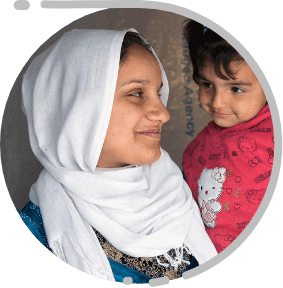
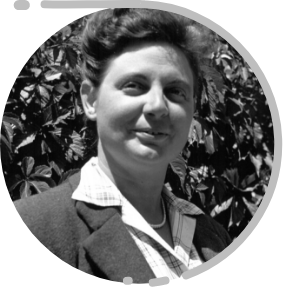
Adding témoignages Madeleine

diff --git a/index.html b/index.html
@@ -63,12 +63,11 @@
 
     <div class="container-fluid" style="z-index: 700;">
         <div class="row" style="position: relative">
-            <div class="col-lg-12 col-xs-12 no-padding"
-                style=" height: 100vh">
-                <video poster="assets/Header.png" id="bgvid"  playsinline autoplay muted >
+            <div class="col-lg-12 col-xs-12 no-padding" style=" height: 100vh">
+                <video poster="assets/Header.png" id="bgvid" playsinline autoplay muted>
                     <source src="assets/Cimade%20FA2019%20intro%20site.mp4" type="video/mp4">
                 </video>
-                <div class="row" >
+                <div class="row">
                     <div class="col-lg-6 col-xs-6" style="margin-top: 20px;z-index: 10">
                         <a href="https://www.lacimade.org/" target="_blank" style=" margin-left: 20px; ">
                             <img src="assets/logoHeader.png" alt="logo" id="logoHeader">
@@ -97,7 +96,8 @@
                     </div>
                 </div>
                 <img src="assets/titleHeader.png"
-                    style="position: absolute; bottom: 0px; left: 50%; margin-left: -389px; z-index: 4" id="titleHeader">
+                    style="position: absolute; bottom: 0px; left: 50%; margin-left: -389px; z-index: 4"
+                    id="titleHeader">
             </div>
         </div>
         <div class="row blanc_pur_bg" style="padding-top: 40px;">
@@ -130,9 +130,11 @@
                                 Montrez-vous extrêmement solidaires des personnes migrantes et réfugiées,<br><br>
                             </div>
                             <div class="OpenSans font-size-20 bold rouge_pur uppercase">
-                                <a href="https://donner.lacimade.org/b?cid=76&utm_campaign=FA19&utm_source=LP" target="_blank" class="utmHref rouge_pur rouge_purHover">
-                                        <img src="assets/arrow.png"
-                                        style="float: left; margin-right: 10px; height: 25px; padding-top: 3px"> soutenez la
+                                <a href="https://donner.lacimade.org/b?cid=76&utm_campaign=FA19&utm_source=LP"
+                                    target="_blank" class="utmHref rouge_pur rouge_purHover">
+                                    <img src="assets/arrow.png"
+                                        style="float: left; margin-right: 10px; height: 25px; padding-top: 3px">
+                                    soutenez la
                                     cimade.
                                 </a>
                             </div>
@@ -207,8 +209,8 @@
                 <div id="displayPopUptemoin2"
                     class="redCircleDescription rouge_pur_bg center-middle blanc_pur Dosis medium font-size-76">+
                 </div>
-                <span class="rouge_pur uppercase semi-bold Dosis font-size-40">Prénom</span><br>
-                <span class="noir_pur light Dosis font-size-30">Titre de témoignage</span>
+                <span class="rouge_pur uppercase semi-bold Dosis font-size-36">madeleine barot</span><br>
+                <span class="noir_pur light Dosis font-size-20">Secrétaire générale de La Cimade<br>de 1940 à 1956</span>
             </div>
         </div>
         <!--TEMOIN 3-->
@@ -286,8 +288,9 @@
                             class="redCircleDescription rotateCircleTemoinPopUp rouge_pur_bg center-middle blanc_pur Dosis medium font-size-76">
                             +
                         </div>
-                        <span class="rouge_pur uppercase semi-bold Dosis font-size-40">Prénom</span><br>
-                        <span class="blanc_pur light Dosis font-size-30">Titre de témoignage</span>
+                        <span class="rouge_pur uppercase semi-bold Dosis font-size-36">madeleine barot</span><br>
+                        <span class="blanc_pur light Dosis font-size-20">Secrétaire générale de La Cimade<br>de 1940 à
+                            1956</span>
                     </div>
                 </div>
             </div>
@@ -298,25 +301,30 @@
                     style="position: relative; right: 10px; bottom: 150px;">
                 <div id="textPopUpDescription">
                     <span class="blanc_pur font-size-40 Dosis semi-bold uppercase" style="line-height: 45px;">
-                        lorem ipsum<br>
+                        EN JUIN<br>
                         <span class="rouge_pur">
-                            Tous dolor sit amet
+                            1940
                         </span>
                     </span><br>
-                    <span style="line-break: 24px;">Lorem ipsum dolor sit amet
-                        Sed ut perspiciatis unde omnis iste natus error sit voluptatem accusantium doloremque
-                        laudantium,
-                        totam rem aperiam, eaque ipsa quae ab illo inventore veritatis et quasi architecto beatae
-                        vitae
-                        dicta sunt explicabo.<br><br>
-                        Nemo enim ipsam voluptatem quia voluptas sit aspernatur aut odit aut fugit, sed quia
-                        consequuntur
-                        magni dolores eos qui ratione voluptatem sequi nesciunt. Neque porro quisquam est, qui
-                        dolorem
-                        ipsum
-                        quia dolor sit amet, consectetur, adipisci velit, sed quia non numquam eius modi tempora
-                        incidunt ut
-                        labore et dolore magnam aliquam quaerat voluptatem.
+                    <span style="line-break: 18px; font-size: 18px;">
+                        je suis devenue secrétaire générale de La Cimade et j’ai réussi à entrer et à rester dans le
+                        plus grand camp d’internement : le camp de Gurs, bâti en 1938 pour les réfugiés de la guerre
+                        d’Espagne. Il y avait aussi le camp de Rivesaltes : des Juifs y étaient internés dans des
+                        conditions inadmissibles. La Cimade y a installé une équipe de résidents permanents pour aider
+                        ces personnes internées. Nous avons aussi joué un rôle majeur de témoins en alertant notamment
+                        sur les arrestations auxquelles les autorités allemandes procédaient à l’intérieur des camps
+                        afin d’emmener vers l’Allemagne des réfugiés qui étaient en zone libre et sous protection
+                        française.
+                        <br><br>
+                        <span class="font-size-24 rouge_pur" style="line-height: 24px;">C’est en vivant dans les camps avec les victimes que les
+                            équipes de La Cimade ont pu aider à sauver des vies, légalement ou clandestinement.</span>
+                        <br><br>
+                        C’est par exemple dans un cimetière situé sur la frontière entre la France et la Suisse que j’ai
+                        aidé des enfants à fuir. Il fallait qu’ils soient vêtus de noir et qu’ils aient des fleurs dans
+                        les bras. On allait s’installer près de la tombe d’une vieille dame dont je leur racontais
+                        l’histoire. Quand les soldats allemands qui surveillaient la frontière ne pouvaient pas nous
+                        voir on aidait un enfant à franchir le mur du cimetière. De l’autre côté c’était la Suisse, il
+                        était en sécurité.
                     </span>
                 </div>
             </div>

diff --git a/js/description.js b/js/description.js
@@ -67,12 +67,13 @@ $(".redCircleDescription").click(function () {
 });
 
 $(".temoins").click(function () {
-    $("body").css("overflow-y", "hidden");
-    $("html").css("overflow-y", "hidden");
     $("#DescriptionPopUp").css("display", "block");
     $("#DescriptionPopUp").animate({
         opacity: 1
-    }, 1000);
+    }, 1000, function() {
+        $("body").css("overflow-y", "hidden");
+        $("html").css("overflow-y", "hidden");
+    });
 });
 
 

diff --git a/css/basics.css b/css/basics.css
@@ -129,6 +129,10 @@ body {
     font-size: 30px;
 }
 
+.font-size-36 {
+    font-size: 36px;
+}
+
 .font-size-38 {
     font-size: 38px;
 }
